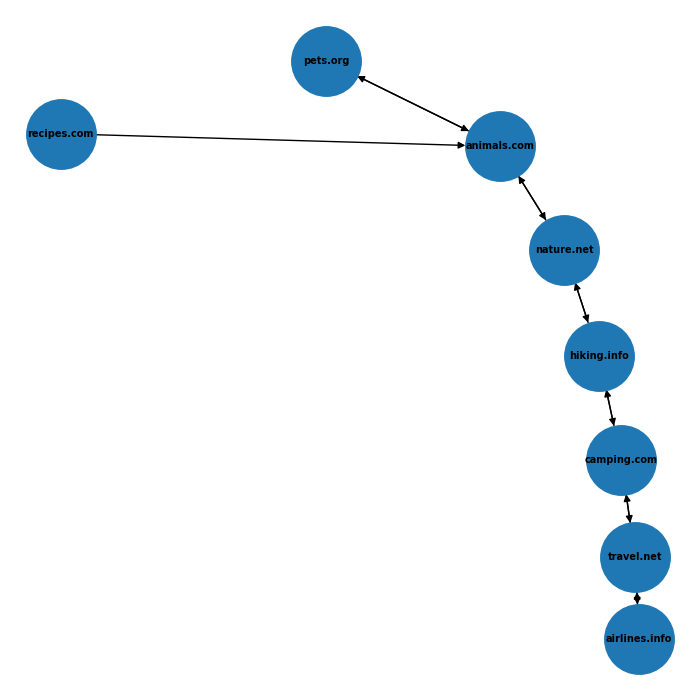
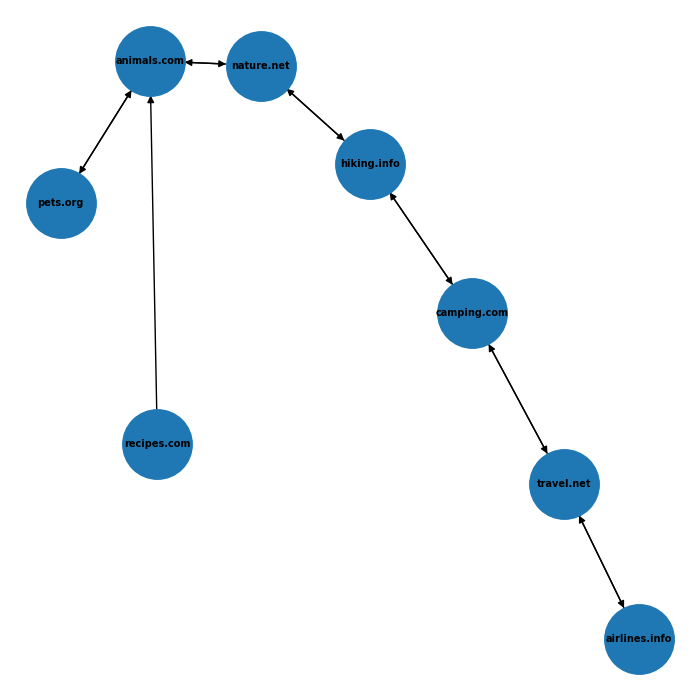
Changed adjacency_matrix creation a bit to fix PageRank bug Added sorting for page rank

diff --git a/ex2.py b/ex2.py
@@ -83,7 +83,7 @@ def pageRankSimulation(data, numIter, beta):
             website_i_outgoing_links = data[i]['linksTo']
             if website_j['URL'] in website_i_outgoing_links:
                 # if i -> j
-                adjacency_matrix[i, j] = 1 / len(website_i_outgoing_links)
+                adjacency_matrix[j, i] = 1 / len(website_i_outgoing_links)
 
     # creating dump matrix
     dump_matrix = numpy.full((amount_of_websites, amount_of_websites), 1 / amount_of_websites)
@@ -173,8 +173,9 @@ def main():
     inverted_index = invertedIndex(data, search_strings)
     pprint(inverted_index)
     page_rank = pageRankSimulation(data, 100000, 0.8)
-    pprint(page_rank)
-    top1(inverted_index, page_rank)
+    sorted_pr = sorted(page_rank,key = lambda x: x[1],reverse = True)
+    pprint(sorted_pr)
+    #top1(inverted_index, page_rank)
 
 
 if __name__ == "__main__":
